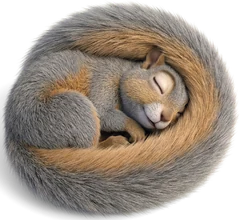
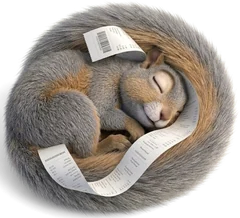
Adopt the four re-drawn poses, and add calendar and dancing
acorn, alert, resting and waving now come from the JPG renders that were
staged in the originals folder. They're new drawings rather than re-encodes —
waving's crop goes from 569px to 835px wide and resting has swapped the acorn
for a receipt — so this changes what people see on the launch screen, the
first-run sheet, the needs-attention card and the nothing-to-do card.

The splash follows automatically: it's acorn flattened onto the cream.

The app icons don't, and shouldn't. They're cut from `scout-receipt`, which
didn't change, so they're not stale.

Two new poses, cut and committed but not on any screen yet:

  calendar  holding up the month
  dancing   both arms up

They're in the cast and in the album regardless. The album is the only
written-down record of the roster, and a pose that exists without being listed
there is a pose everyone forgets they have — captioned honestly as "Not on a
screen yet" rather than given a fictional job.

lounge came back too. Its pair was missing last time and the exporter skipped
it; the source is there now, so all thirteen regenerate and the warning
test:mascot printed is gone.

Also: `find_render` matches case-insensitively, because the calendar pair
arrived as `Scout-calendar-*.png` and a capital letter is not a reason to tell
somebody their file isn't there.

Everything else is byte-identical after a full regenerate — bin, clipboard,
folder, receipt, report and settings — which is the check that this touched
only what was asked.
[…]

diff --git a/src/components/Scout.tsx b/src/components/Scout.tsx
@@ -1,7 +1,9 @@
 import acorn from '@/assets/mascot/scout-acorn.webp';
 import alert from '@/assets/mascot/scout-alert.webp';
 import bin from '@/assets/mascot/scout-bin.webp';
+import calendar from '@/assets/mascot/scout-calendar.webp';
 import clipboard from '@/assets/mascot/scout-clipboard.webp';
+import dancing from '@/assets/mascot/scout-dancing.webp';
 import folder from '@/assets/mascot/scout-folder.webp';
 import lounge from '@/assets/mascot/scout-lounge.webp';
 import receipt from '@/assets/mascot/scout-receipt.webp';
@@ -14,7 +16,7 @@ import waving from '@/assets/mascot/scout-waving.webp';
  * Scout, the mascot. Poses are imported rather than referenced from /public so
  * the single-file build can inline them — see `npm run build:single`.
  *
- * Each pose means something, and the meaning is the point of having eleven of
+ * Each pose means something, and the meaning is the point of having thirteen of
  * them rather than one. Scout asleep on a card with nothing left to do says
  * "you're finished" more plainly than the sentence next to it does.
  *
@@ -25,6 +27,8 @@ import waving from '@/assets/mascot/scout-waving.webp';
  *   folder    filing the paper original — after a save, and in the tour
  *   bin       fishing receipts back out — recently deleted
  *   clipboard glasses on, taking it down — the item form
+ *   calendar  holding up the month — not placed yet
+ *   dancing   both arms up — not placed yet
  *   settings  at a control desk — settings
  *   alert     ears up, something needs you
  *   resting   curled up, nothing does
@@ -46,6 +50,8 @@ export type ScoutPose =
   | 'folder'
   | 'bin'
   | 'clipboard'
+  | 'calendar'
+  | 'dancing'
   | 'settings'
   | 'alert'
   | 'resting'
@@ -61,6 +67,8 @@ const SRC: Record<ScoutPose, string> = {
   folder,
   bin,
   clipboard,
+  calendar,
+  dancing,
   settings,
   alert,
   resting,
@@ -80,6 +88,11 @@ export const SCOUT_POSES: { pose: ScoutPose; name: string; where: string }[] = [
   { pose: 'folder', name: 'Filing day', where: 'After you save something, and in the tour' },
   { pose: 'bin', name: 'Second thoughts', where: 'Recently deleted, getting something back out' },
   { pose: 'clipboard', name: 'Taking it down', where: 'Adding or editing an item' },
+  /* Drawn, cut out and ready. Listed here rather than held back, because the
+     album is the only written-down record of the cast and a pose that exists
+     but isn't in it is a pose everyone forgets they have. */
+  { pose: 'calendar', name: 'Minding the month', where: 'Not on a screen yet' },
+  { pose: 'dancing', name: 'Very pleased', where: 'Not on a screen yet' },
   { pose: 'settings', name: 'At the desk', where: 'This screen' },
   { pose: 'alert', name: 'Ears up', where: 'When something needs a minute, or needs confirming' },
   { pose: 'resting', name: 'Off duty', where: 'When nothing does' },

diff --git a/scripts/matte.py b/scripts/matte.py
@@ -184,11 +184,15 @@ def find_render(source_dir: str, name: str, background: str) -> str:
     survives to the cut-out. What would not be fine is a pair saved in two
     different formats, or one of them re-encoded after a crop — the subtraction
     assumes the two frames are the same picture.
+
+    Matched without regard to case, because the renders are named by hand and
+    one of them arrived as `Scout-calendar-white.png`. A capital letter is not
+    a reason to tell somebody their file isn't there.
     """
-    for ext in ('png', 'jpg', 'jpeg'):
-        path = f'{source_dir}/scout-{name}-{background}.{ext}'
-        if os.path.exists(path):
-            return path
+    wanted = {f'scout-{name}-{background}.{ext}' for ext in ('png', 'jpg', 'jpeg')}
+    for entry in sorted(os.listdir(source_dir)):
+        if entry.lower() in wanted:
+            return f'{source_dir}/{entry}'
     raise FileNotFoundError(
         f'No {background} render for "{name}" in {source_dir} — looked for .png, .jpg and .jpeg.'
     )
